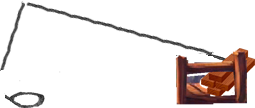
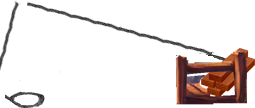
working correctly up to point where you pull the rigging to suspend the wood above the bridge, need to swap image, and then ready to continue

Changed region(s): [[0.0, 0.0, 0.1098, 0.6667]]

diff --git a/events.js b/events.js
@@ -161,27 +161,42 @@ async function combineRopeAndHookWithStackOfWood(blank, dialogueString, blank2, 
 
 async function connectRopeAndHookWithWoodToPulley(blank, dialogueString, blank2, blank3) {
     let gridData = getGridData();
+    let pulleyWheelOnScreen = false;
+    let dialogueData = getDialogueData().dialogue;
+    let language = getLanguage();
 
-    //check if pulley wheel on screen else return;
+    for (const row of gridData.gridData) {
+        for (const cellValue of row) {
+            if (cellValue === 'oobjectPulleyWheel') {
+                pulleyWheelOnScreen = true;
+                break;
+            }
+        }
+    }
 
-    removeObjectFromEnvironment('objectRopeAndHookWithStackOfWood', 'riverCrossing');
-    updateGrid();
-    
-    setTimeout(() => {
-        setAnimationInProgress(true);
-        addEntityToEnvironment(
-            'objectRopeAndHookWithStackOfWoodOnPulley', 
-            34, 17, 
-            0.8, 0.4, 
-            getObjectData().objects['objectRopeAndHookWithStackOfWoodOnPulley'].dimensions.originalWidth, 
-            getObjectData().objects['objectRopeAndHookWithStackOfWoodOnPulley'].dimensions.originalHeight, 
-            's1', true, 'riverCrossing'
-        );
-        setPreAnimationGridState(gridData, 'objectRopeAndHookWithStackOfWoodOnPulley', true);
+    if (pulleyWheelOnScreen) {
+        removeObjectFromEnvironment('objectRopeAndHookWithStackOfWood', 'riverCrossing');
         updateGrid();
-    }, 50);
-    
-    await showText(dialogueString, getColorTextPlayer());
+        
+        setTimeout(() => {
+            setAnimationInProgress(true);
+            addEntityToEnvironment(
+                'objectRopeAndHookWithStackOfWoodOnPulley', 
+                34, 17, 
+                0.8, 0.4, 
+                getObjectData().objects['objectRopeAndHookWithStackOfWoodOnPulley'].dimensions.originalWidth, 
+                getObjectData().objects['objectRopeAndHookWithStackOfWoodOnPulley'].dimensions.originalHeight, 
+                's1', true, 'riverCrossing'
+            );
+            setPreAnimationGridState(gridData, 'objectRopeAndHookWithStackOfWoodOnPulley', true);
+            updateGrid();
+        }, 50);
+        
+        await showText(dialogueString, getColorTextPlayer());
+    } else {
+        dialogueString = dialogueData.specialDialogue.pulleyNotOnScreen[language];
+        await showText(dialogueString, getColorTextPlayer());
+    }
 }
 
 async function hoistWoodOverHoleInBridgeAndBlockAllActionsExceptUse(blank, dialogueString, blank2, blank3) { //TODO
@@ -190,6 +205,7 @@ async function hoistWoodOverHoleInBridgeAndBlockAllActionsExceptUse(blank, dialo
         setForcePlayerLocation([33, 30]);
     
         await waitForPlayerToMoveToForceLocation();
+        await showText(dialogueString, getColorTextPlayer());
 
         //remove objectRopeAndHookWithStackOfWoodOnPulley
         //add hoisted object

diff --git a/pathFinding.js b/pathFinding.js
@@ -115,7 +115,7 @@ function aStarSinglePathfinding(start, target, action, subject, waypoints, overr
         const distanceToTarget = heuristic(currentNode, target);
         const cellType = gridData.gridData[target.y][target.x];
 
-        if (action === "Talk To" || action === "Give" || cellType === "oobjectStackOfWood" || cellType === "oobjectRopeAndHookWithStackOfWood") { //only player //oobjectStacOfWood is a workarond to stop the plater crossing the uncompleted bridge, change in future with better logic
+        if (action === "Talk To" || action === "Give" || cellType === "oobjectStackOfWood" || cellType === "oobjectRopeAndHookWithStackOfWood" || cellType === "oobjectRopeAndHookWithStackOfWoodOnPulley") { //only player //oobjectStacOfWood is a workarond to stop the plater crossing the uncompleted bridge, change in future with better logic
             if(!npcResizedYet && cellType.startsWith('c')) {
                 const npc = cellType.slice(1);
                 const npcGridPositionY = getNpcData().npcs[npc].gridPosition.y;
@@ -126,7 +126,7 @@ function aStarSinglePathfinding(start, target, action, subject, waypoints, overr
                 npcResizedYet = true;
             }
 
-            if (distanceToTarget <= 13 && cellType !== "oobjectStackOfWood" || distanceToTarget <= 18 && cellType === "oobjectStackOfWood" || distanceToTarget <= 18 && cellType === "oobjectRopeAndHookWithStackOfWood") {
+            if (distanceToTarget <= 13 && (cellType !== "oobjectStackOfWood" && cellType !== "oobjectRopeAndHookWithStackOfWood" && cellType !== "oobjectRopeAndHookWithStackOfWoodOnPulley") || distanceToTarget <= 18 && cellType === "oobjectStackOfWood" || distanceToTarget <= 18 && cellType === "oobjectRopeAndHookWithStackOfWood" || distanceToTarget <= 18 && cellType === "oobjectRopeAndHookWithStackOfWoodOnPulley") {
                 let temp = currentNode;
                 while (temp) {
                     path.push({ x: temp.x, y: temp.y });
